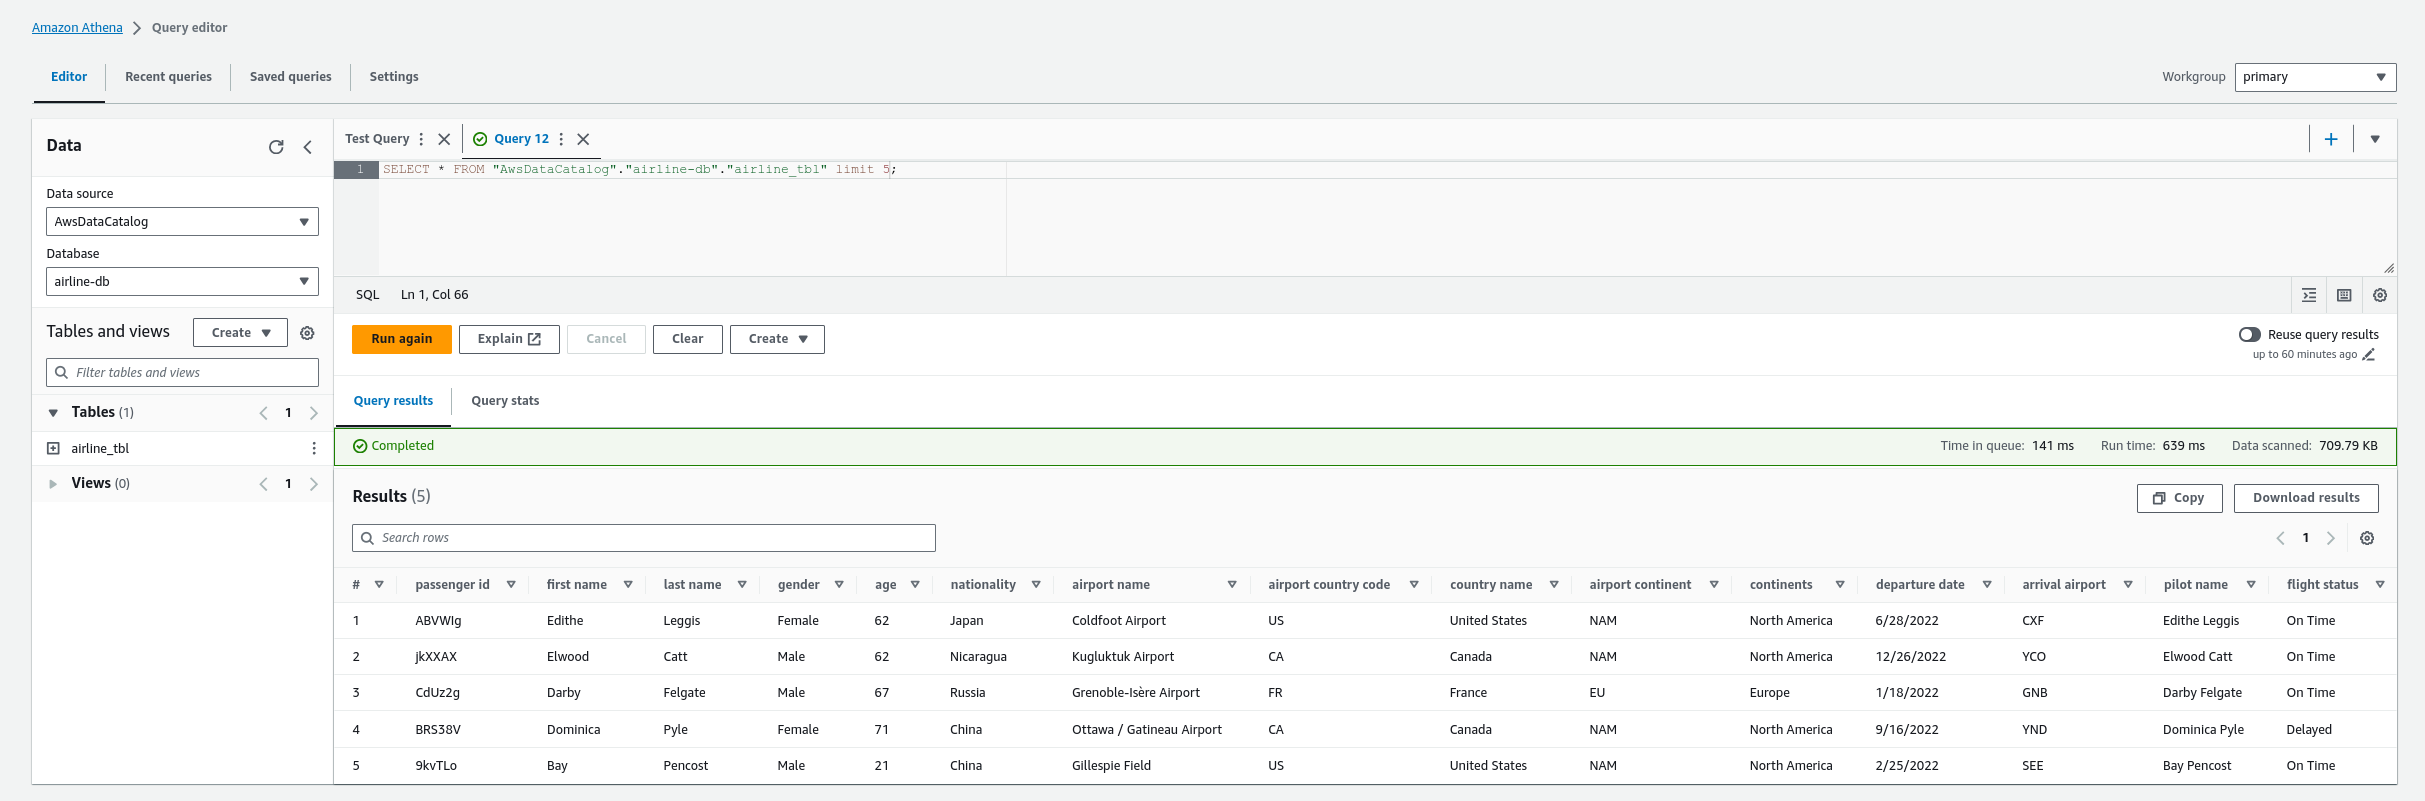
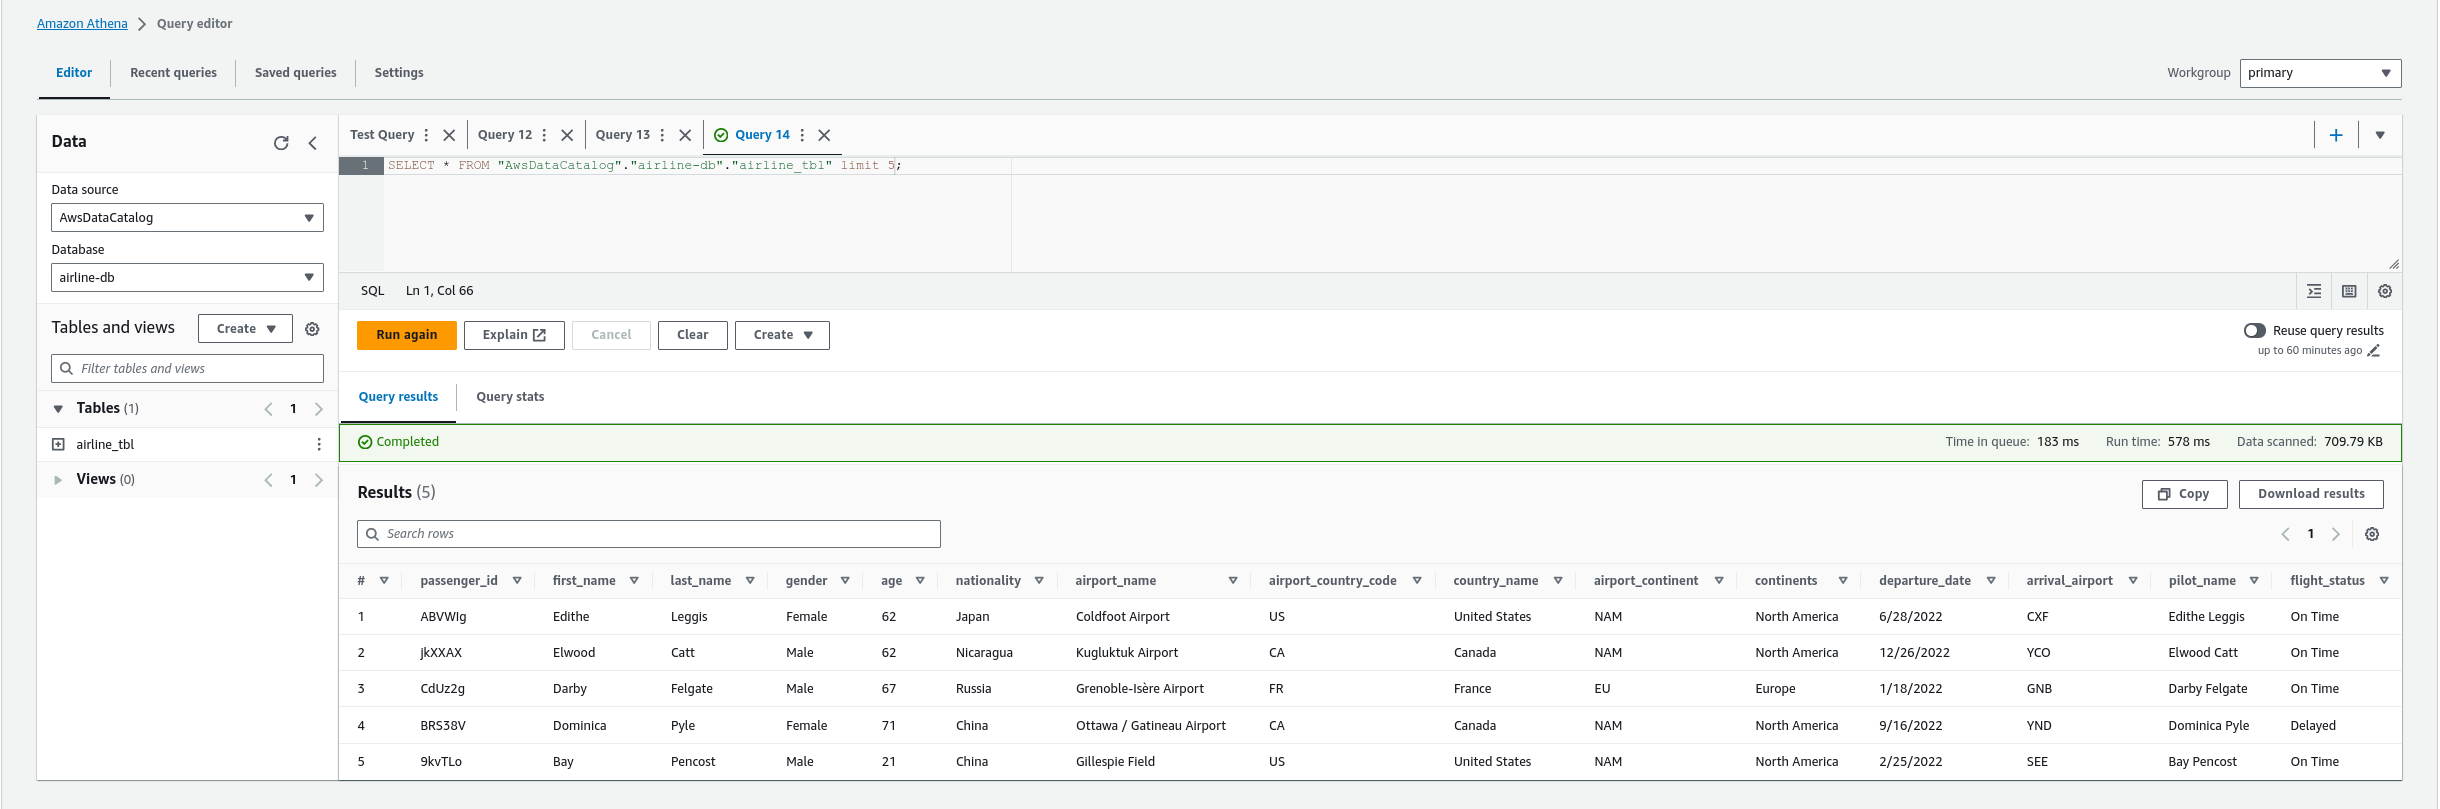
Atualizando imagens

diff --git a/engenharia-de-dados/mvp/scripts/load-redshift.py b/engenharia-de-dados/mvp/scripts/load-redshift.py
@@ -24,18 +24,18 @@ DataCatalogtable_node1 = glueContext.create_dynamic_frame.from_catalog(
 ChangeSchema_node2 = ApplyMapping.apply(
     frame=DataCatalogtable_node1,
     mappings=[
-        ("passenger id", "string", "passenger id", "string"),
+        ("passenger_id", "string", "passenger_id", "string"),
         ("gender", "string", "gender", "string"),
         ("age", "int", "age", "int"),
         ("nationality", "string", "nationality", "string"),
-        ("airport name", "string", "airport name", "string"),
-        ("airport country code", "string", "airport country code", "string"),
-        ("country name", "string", "country name", "string"),
-        ("airport continent", "string", "airport continent", "string"),
+        ("airport_name", "string", "airport_name", "string"),
+        ("airport_country_code", "string", "airport_country_code", "string"),
+        ("country_name", "string", "country_name", "string"),
+        ("airport_continent", "string", "airport_continent", "string"),
         ("continents", "string", "continents", "string"),
-        ("departure date", "string", "departure date", "string"),
-        ("arrival airport", "string", "arrival airport", "string"),
-        ("flight status", "string", "flight status", "string"),
+        ("departure_date", "string", "departure_date", "string"),
+        ("arrival_airport", "string", "arrival_airport", "string"),
+        ("flight_status", "string", "flight_status", "string"),
     ],
     transformation_ctx="ChangeSchema_node2",
 )
@@ -47,9 +47,9 @@ AmazonRedshift_node3 = glueContext.write_dynamic_frame.from_options(
     connection_options={
         "redshiftTmpDir": "s3://aws-glue-assets-746033461814-us-east-1/temporary/",
         "useConnectionProperties": "true",
-        "dbtable": "public.airline-tbl",
+        "dbtable": "public.airline",
         "connectionName": "redshift-connection",
-        "preactions": "DROP TABLE IF EXISTS public.airline-tbl; CREATE TABLE IF NOT EXISTS public.airline-tbl (passenger id VARCHAR, gender VARCHAR, age INTEGER, nationality VARCHAR, airport name VARCHAR, airport country code VARCHAR, country name VARCHAR, airport continent VARCHAR, continents VARCHAR, departure date VARCHAR, arrival airport VARCHAR, flight status VARCHAR);",
+        "preactions": "DROP TABLE IF EXISTS public.airline; CREATE TABLE IF NOT EXISTS public.airline (passenger_id VARCHAR, gender VARCHAR, age INTEGER, nationality VARCHAR, airport_name VARCHAR, airport_country_code VARCHAR, country_name VARCHAR, airport_continent VARCHAR, continents VARCHAR, departure_date VARCHAR, arrival_airport VARCHAR, flight_status VARCHAR);",
     },
     transformation_ctx="AmazonRedshift_node3",
 )
